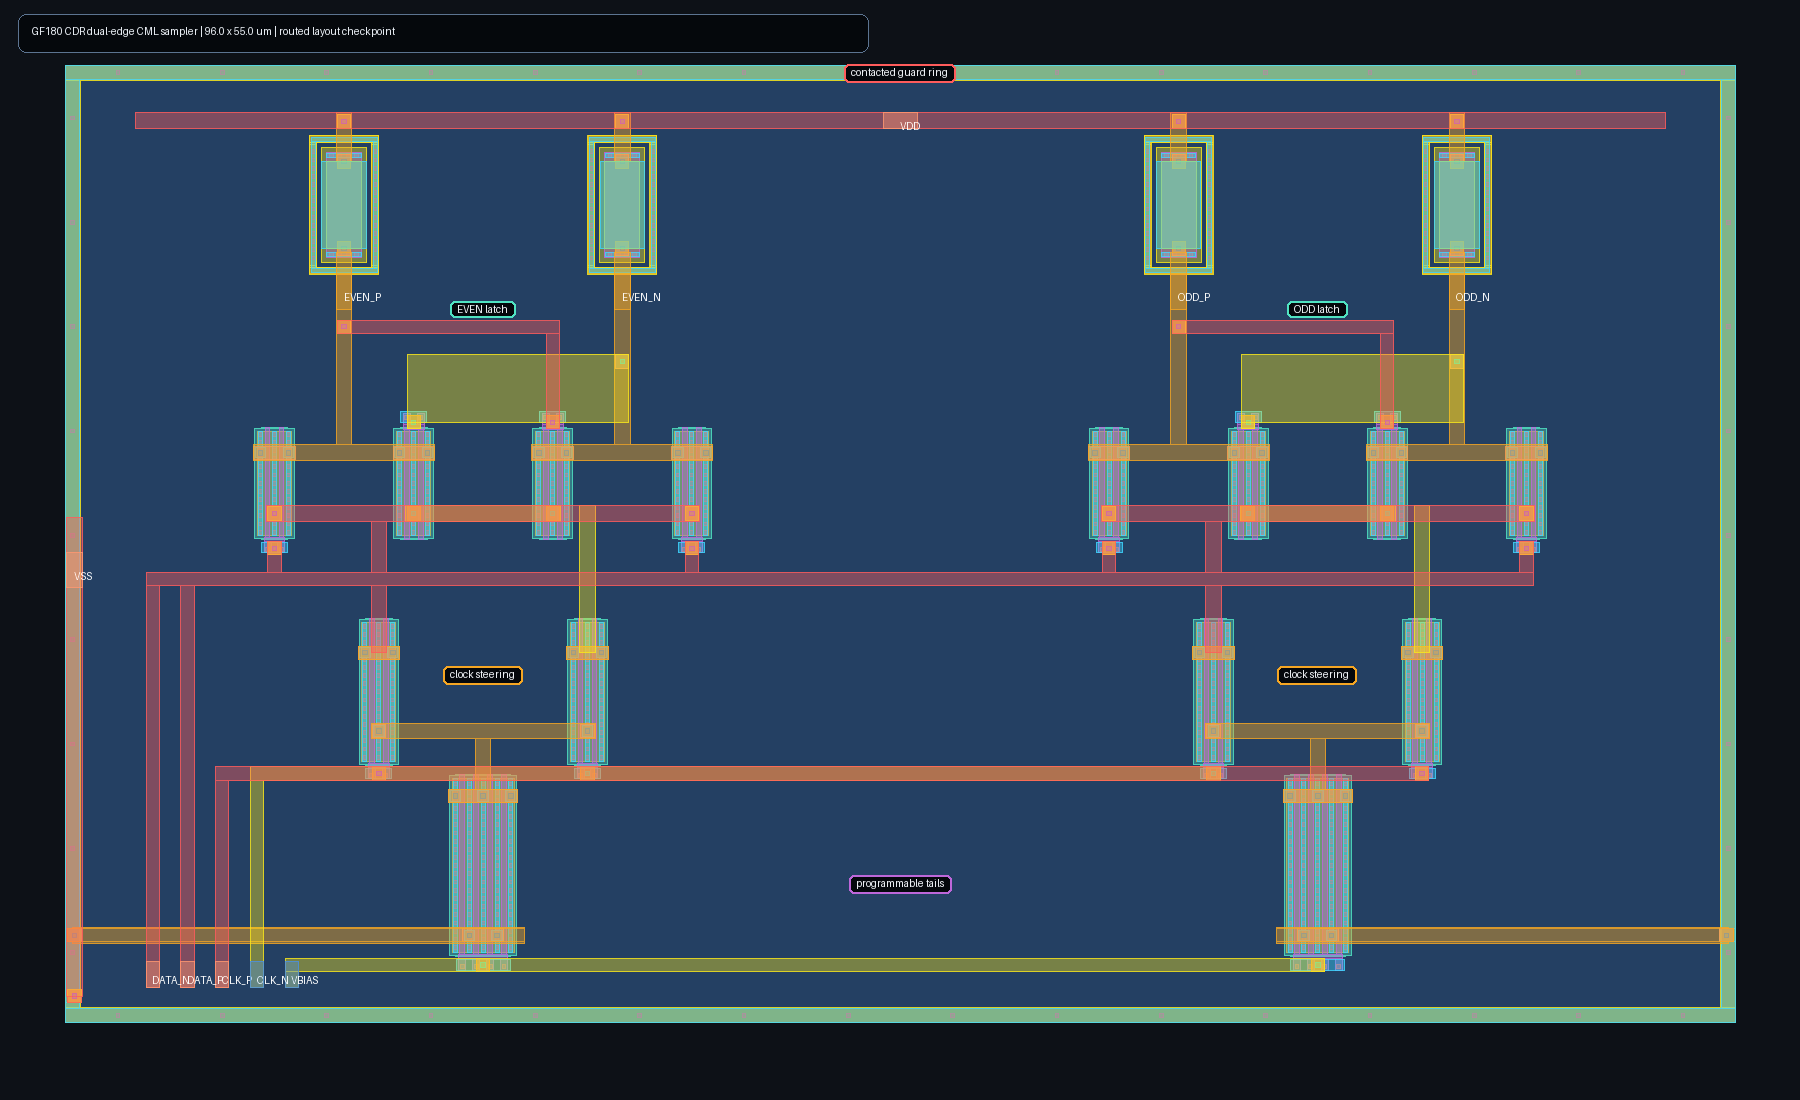
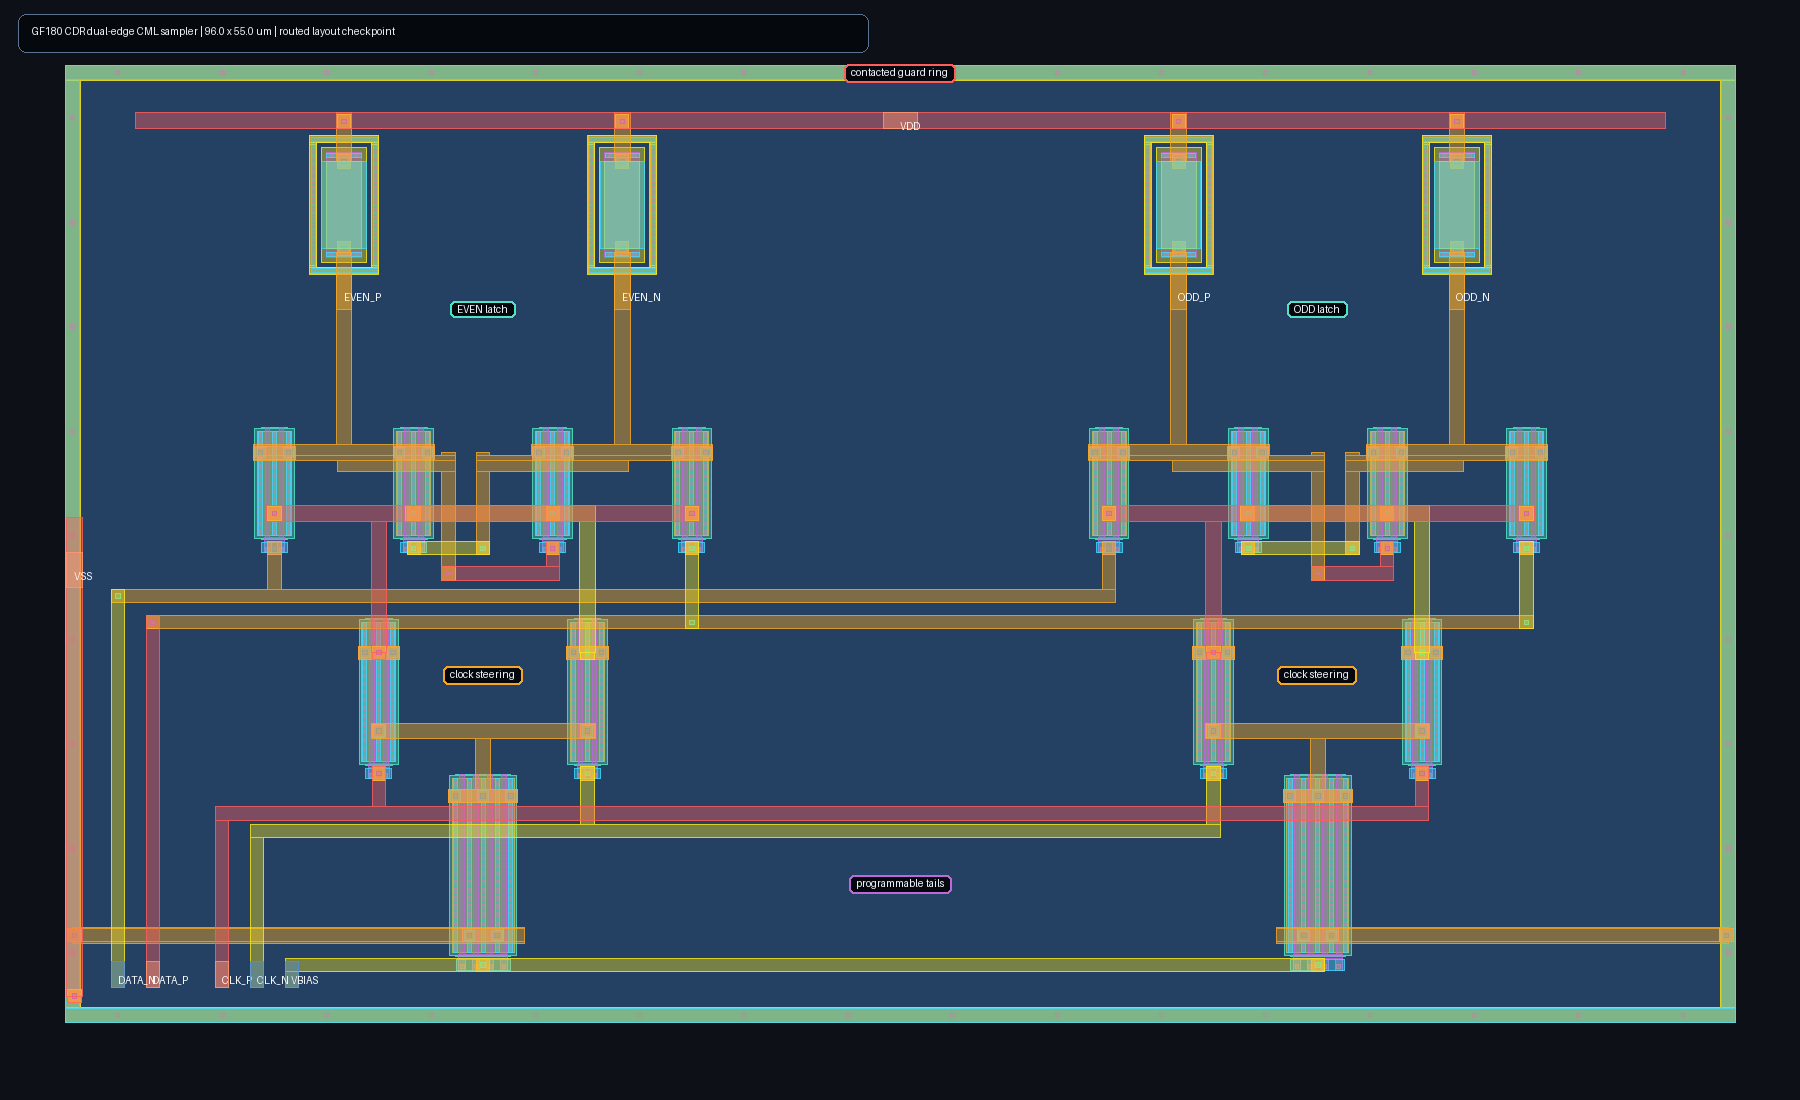
Close CDR sampler DRC and LVS

Changed region(s): [[0.0622, 0.2782, 0.8711, 0.8964]]

diff --git a/ip/blocks/analog/wireline_serdes/cdr/README.md b/ip/blocks/analog/wireline_serdes/cdr/README.md
@@ -6,7 +6,7 @@ Each latch steers one tail current between a differential tracking pair and a cr
 
 The current schematic matrix completes 1,701/1,701 simulations over 3 MOS corners, 3 unsalicided-resistor corners, 3 supplies, 3 temperatures, 3 shared data/clock common-mode fractions, and 7 bias settings. All 243 groups calibrate with an interior 1.00--1.30 V setting. The selected minimum signed decision margin is 0.480--1.533 V, selected current is 2.18--6.39 mA, and every group retains 3--7 electrically valid bias settings while checking 20 alternating even/odd decisions per case.
 
-The first routed physical checkpoint is now available below. It places the even
+The routed physical checkpoint is available below. It places the even
 and odd latches as mirrored halves, keeps the regenerative devices and p-poly
 loads local to their outputs, locates clock steering directly below each latch,
 uses compact local tail connections, and surrounds the 96 x 55 um cell with a
@@ -15,10 +15,15 @@ review; `layout.tcl` remains the editable, reproducible source.
 
 ![GF180 dual-edge CDR sampler routed layout checkpoint](layout.png)
 
-This image is a work-in-progress physical checkpoint, not signoff. The current
-generated layout has eight local metal-1 spacing markers around regenerative
-gate contacts, and LVS still reports connectivity/pin mismatches. DRC/LVS/PEX,
-extracted aperture and setup/hold sweeps, jitter and supply sensitivity,
-mismatch, metastability characterization, phase-detector logic, loop dynamics,
-and autonomous acquisition remain open. Results are experimental pre-silicon
-public-model evidence, not PCIe compliance or silicon qualification.
+The generated cell is now Magic DRC-clean and matches the schematic uniquely in
+Netgen LVS. Its coupled full-RC extraction contains 480 resistors and 193
+capacitors. A nominal extracted bias sweep passes four adjacent codes from
+0.90--1.20 V with 0.233--0.701 V minimum signed decision margin.
+
+This remains a pre-signoff physical checkpoint. The full extracted PVT,
+aperture/setup-hold, jitter, load, and input/clock sensitivity matrices are in
+progress. Mismatch, metastability-tail characterization, supply-noise
+injection, phase-detector logic, loop dynamics, autonomous acquisition,
+post-fill extraction, EM/IR, and package/channel co-simulation remain open.
+Results are experimental pre-silicon public-model evidence, not PCIe compliance
+or silicon qualification.
